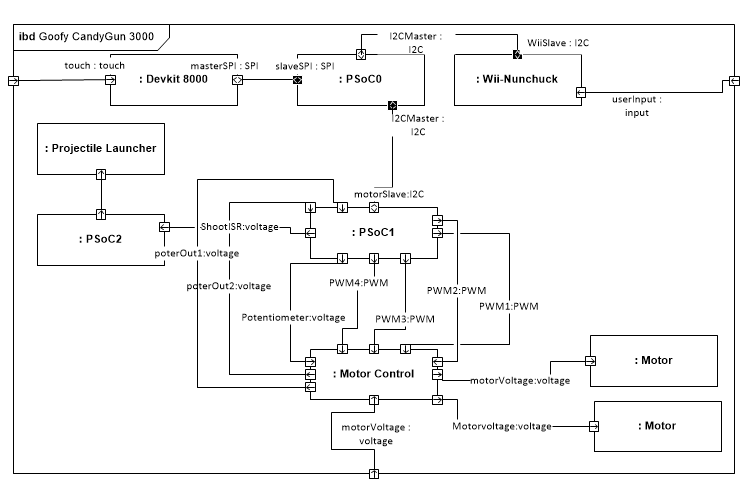
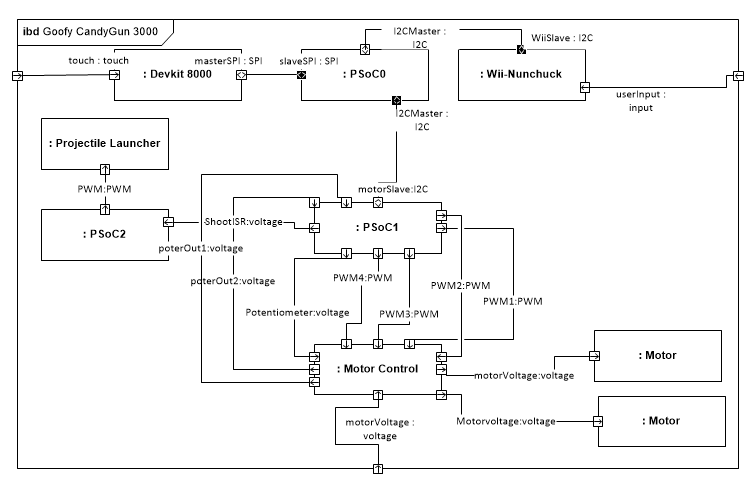
update signalbeskrivelse i rapport

diff --git a/Dokumentation/Afsnit/Systemarkitektur/SystemArkitektur.tex b/Dokumentation/Afsnit/Systemarkitektur/SystemArkitektur.tex
@@ -48,6 +48,12 @@ Følgende afsnit indeholder en blokbeskrivelse samt en flowspecifikation for I2C
 \noindent \textbf{PSoC0} \par
 \noindent \textit{PSoC0} er PSoC hardware der indeholder software til I2C og SPI kommunikationen og afkodning af Wii-Nunchuck data. PSoC0 fungerer som I2C master og SPI slave. Denne PSoC er bindeleddet mellem brugergrænsefladen og resten af systemets hardware.
 
+\noindent \textbf{PSoC2} \par
+\noindent \textit{PSoC2} denne blok står for at sende et signal til affyringsmekanismen om at den skal skyde og så skal den også holde styre på at der kun bliver skydt en gang.
+
+\noindent \textbf{Projectile Launcher} \par
+\noindent \textit{Projectile Launcher} den blok er vores affyringsmekanismen
+
 \noindent \textbf{MotorControl} \par
 \noindent \textit{MotorControl} blokken er Candy Gun 3000's motorerer, der anvendes til at bevæge kanonen i forskellige retninger. Denne blok består af Hbro blok og rotationsbegrænsnings blokken
 
@@ -101,7 +107,18 @@ I signalbeskrivelsen gælder det, at når et signal beskrives som 'højt' operer
 	& & wiiMaster & Type: I2C \newline Spændingsniveau: ?? \newline Hastighed: ?? \newline Beskrivelse: I2C bussen hvor der modtages data fra Nunchuck.\\ \cline{3-4}
 	& & motorMaster & Type: I2C \newline Spændingsniveau: 0-5V \newline Hastighed: 100kbit/sekund \newline Beskrivelse: I2C bussen hvor der sendes afkodet Nunchuck data til PSoC1.\\ \hline
 	PSoC1 & Modtager nunchuckinput fra PSoC0 og omsætter dataene til PWM signaler. & motorSlave & Type: I2C \newline Spændingsniveau: 0-5V \newline Hastighed: 100kbit/sekund \newline Beskrivelse: Indeholder formatteret Wii-Nunchuck data som omsættes til PWM-signal. \\ \cline{3-4} 
-	& & PWM & Type: PWM \newline Frekvens: 22kHz \newline PWM \%: 0-100\% \newline Spændingsniveau: 0-5V \newline Beskrivelse: PWM signal til styring af motorens hastighed. \\ \hline
+	&& ShootISR & Type: voltage \newline Spændingsniveau: 0-5V \newline Beskrivelse:  giv et højt signal når den skal skyde.\\ \cline{3-4}   
+	& & PWM & Type: PWM \newline Frekvens: 22kHz \newline PWM \%: 0-100\% \newline Spændingsniveau: 0-5V \newline Beskrivelse: PWM signal til styring af motorens hastighed. \\ \cline{3-4}
+	& & PotenOut1 & Type: voltage \newline Spændingsniveau: en spænding 0V-5V alt efter hvad potentiometer står på \newline Beskrivelse: den spænding viser hvor motoren står henne\\ \cline{3-4}
+	& & PotenOut2 & Type: voltage \newline Spændingsniveau: en spænding 0V-5V alt efter hvad potentiometer står på \newline Beskrivelse: den spænding viser hvor motoren står henne\\ \cline{3-4}
+	& & PWM1 & Type: PWM \newline Frekvens: 3MHz \newline PWM\%: 0-100\% \newline Spædingsniveau: 0-5V \newline Beskrivelse: PWM signal til styring af motorens hastighed. \\ \cline{3-4}
+	&& PWM2 & Type: PWM \newline Frekvens: 3MHz \newline PWM\%: 0-100\% \newline Spædingsniveau: 0-5V \newline Beskrivelse: PWM signal til styring af motorens hastighed. \\ \cline{3-4}
+	
+	
+	&& PWM3 & Type: PWM \newline Frekvens: 3MHz \newline PWM\%: 0-100\% \newline Spædingsniveau: 0-5V \newline Beskrivelse: PWM signal til styring af motorens hastighed. \\ \cline{3-4}
+	&& PWM4 & Type: PWM \newline Frekvens: 3MHz \newline PWM\%: 0-100\% \newline Spædingsniveau: 0-5V \newline Beskrivelse: PWM signal til styring af motorens hastighed. \\ \cline{3-4}
+	& & motorVoltage & Type: voltage \newline Spændingsniveau: 9V \newline Beskrivelse: Strømforsyning til motoren\\ \cline{3-4}
+	& & potentiometer & Type: voltage \newline Spændingsniveau: 5V \newline Beskrivelse: giver Rotationsbegrænsing 5V \\ \hline
 	MotorControl & Den enhed der skal bevæge kanonen & PWM1 & Type: PWM \newline Frekvens: 3MHz \newline PWM\%: 0-100\% \newline Spædingsniveau: 0-5V \newline Beskrivelse: PWM signal til styring af motorens hastighed. \\ \cline{3-4}
 	&& PWM2 & Type: PWM \newline Frekvens: 3MHz \newline PWM\%: 0-100\% \newline Spædingsniveau: 0-5V \newline Beskrivelse: PWM signal til styring af motorens hastighed. \\ \cline{3-4}
 
@@ -109,9 +126,12 @@ I signalbeskrivelsen gælder det, at når et signal beskrives som 'højt' operer
 	&& PWM3 & Type: PWM \newline Frekvens: 3MHz \newline PWM\%: 0-100\% \newline Spædingsniveau: 0-5V \newline Beskrivelse: PWM signal til styring af motorens hastighed. \\ \cline{3-4}
 	&& PWM4 & Type: PWM \newline Frekvens: 3MHz \newline PWM\%: 0-100\% \newline Spædingsniveau: 0-5V \newline Beskrivelse: PWM signal til styring af motorens hastighed. \\ \cline{3-4}
 	& & motorVoltage & Type: voltage \newline Spændingsniveau: 9V \newline Beskrivelse: Strømforsyning til motoren\\ \cline{3-4}
-	& & potentiometer & Type: voltage \newline Spændingsniveau: 5V \newline Beskrivelse: giver Rotationsbegrænsing 5V\\ \cline{3-4}
+	& & potentiometer & Type: voltage \newline Spændingsniveau: 5V \newline Beskrivelse: giver Rotationsbegrænsing 5V 
+	\\ \cline{3-4}
 	& & PotenOut1 & Type: voltage \newline Spændingsniveau: en spænding 0V-5V alt efter hvad potentiometer står på \newline Beskrivelse: den spænding viser hvor motoren står henne\\ \cline{3-4}
-	& & PotenOut2 & Type: voltage \newline Spændingsniveau: en spænding 0V-5V alt efter hvad potentiometer står på \newline Beskrivelse: den spænding viser hvor motoren står henne \\ \hline
+	& & PotenOut2 & Type: voltage \newline Spændingsniveau: en spænding 0V-5V alt efter hvad potentiometer står på \newline Beskrivelse: den spænding viser hvor motoren står henne
+	\\ \hline
+		Motor & Denne blok beskriver hvad motoren får. & motorvoltage & Type: voltage \newline Spændingsniveau: 0-5V  \newline Beskrivelse: giver spændning til motoren.(denne beskevelse glæder også for den anden motor) \\ \hline
 	Wii-nunchuck & Den fysiske controller som brugeren styrer kanonen med. & wiiSlave & Type: I2C \newline Spændingsniveau: 0-5V \newline Hastighed: 100kbit/sekund \newline Beskrivelse: Kommunikationslinje mellem PSoC1 og Wii-Nunchuck. \\ \cline{3-4}
 	& & userInput & Type: input \newline Beskrivelse: Brugerinput fra Wii-Nunchuck. \\ \hline
 	SPI & Denne blok beskriver den ikke-atomiske SPI forbindelse. & MOSI & Type: CMOS \newline Spændingsniveau: 0-5V \newline Hastighed: ?? \newline Beskrivelse: Binært data der sendes fra master til slave. \\ \cline{3-4}
@@ -120,6 +140,8 @@ I signalbeskrivelsen gælder det, at når et signal beskrives som 'højt' operer
 	& & SS & Type: CMOS \newline Spændingsniveau: 0-5V \newline Hastighed: ?? \newline  Beskrivelse: Slave-Select, som bruges til at bestemme hvilken slave der skal kommunikeres med. \\ \hline
 	I2C & Denne blok beskriver den ikke-atomiske I2C forbindelse. & SDA & Type: CMOS \newline Spændingsniveau: 0-5V \newline Hastighed: ?? \newline Beskrivelse: Databussen mellem I2C masteren og I2C slaver. \\ \cline{3-4}
 	& & SCL & Type: CMOS \newline Spændingsniveau: 0-5V \newline Hastighed: ?? \newline Beskrivelse: Clock signalet fra master til lyttende I2C slaver, som bruges til at synkronisere den serielle kommunikation. \\ \hline
+		PSoC2& Denne blok bindeledet mellem afyrningsmeknismen og PSoC1. & ShootISR & Type: voltage \newline Spændingsniveau: 0-5V \newline Beskrivelse:  giv et højt signal når den skal skyde.  \\ \hline
+		Projectile Launcher & Denne blok er vores afyrningsmeknismen. & PWM5 & Type: PWM \newline Spændingsniveau: 0-5V \newline Beskrivelse: giver signal til mosfet til at åbne så motoren køre en omgang. \\ \hline
 	\caption{Tabel med signalbeskrivelse}
 \end{longtable}
 
